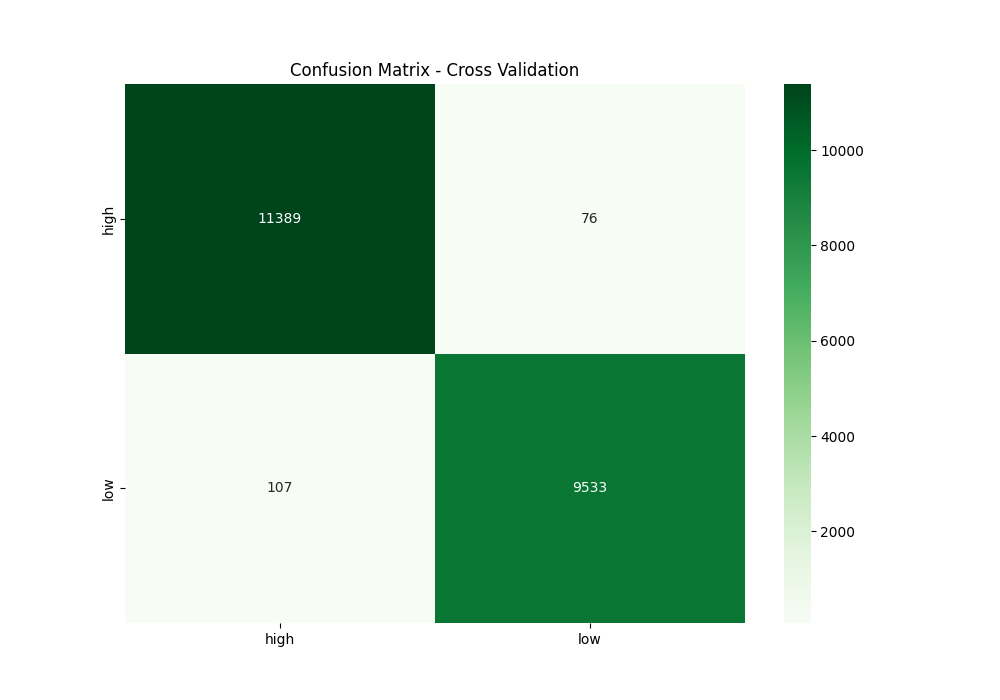
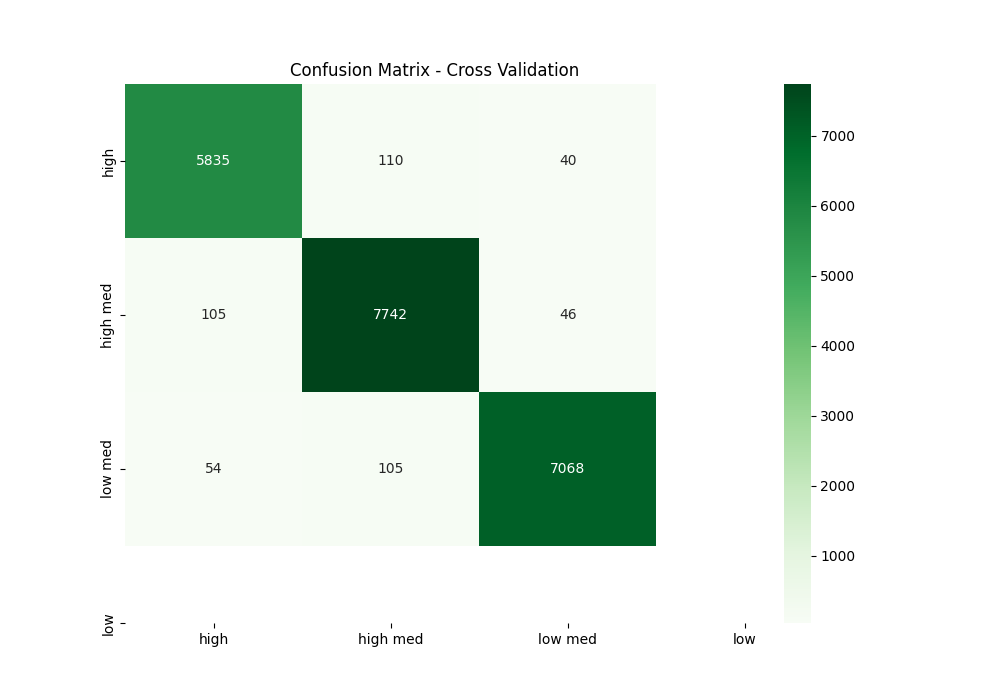
caso 3 finalizado sem mais alterações

diff --git a/tres1.py b/tres1.py
@@ -60,7 +60,7 @@ def get_class_rules(tree: DecisionTreeClassifier, feature_names: list):
     tree_dfs()  # começa da raiz, node_id = 0
     return class_rules_dict
 
-def cluster_report(data: pd.DataFrame, clusters, criterion='entropy',  max_depth=6, min_samples_leaf=1, use_pruning=False):
+def cluster_report(data: pd.DataFrame, clusters, criterion='entropy',  max_depth=50, min_samples_leaf=4, use_pruning=False):
     if use_pruning:
         X_train, X_test, y_train, y_test = train_test_split(data, clusters, test_size=0.3, random_state=42)
         tree = DecisionTreeClassifier(random_state=42)
@@ -326,7 +326,7 @@ def gerar_graficos():
         inertia.append(kmeans.inertia_)
 
     optimal_k_silhouette = K_range[np.argmax(silhouette_scores)]
-    optimal_k_elbow = 4 #K_range[np.argmin(np.diff(inertia, 2)) + 1]  # Finding the elbow points
+    optimal_k_elbow = 3 #K_range[np.argmin(np.diff(inertia, 2)) + 1]  # Finding the elbow points
 
     # Clustering com Silhouette
     kmeans_silhouette = KMeans(n_clusters=optimal_k_silhouette, random_state=42)
@@ -377,34 +377,36 @@ def gerar_graficos():
     plt.close()
 
     silhouette_avg_silhouette = silhouette_score(X_scaled, kmeans_silhouette.labels_)
+    elbow_avg_silhouette = silhouette_score(X_scaled, kmeans_elbow.labels_)
     davies_bouldin_silhouette = davies_bouldin_score(X_scaled, kmeans_silhouette.labels_)
     davies_bouldin_elbow = davies_bouldin_score(X_scaled, kmeans_elbow.labels_)
 
     print(f'Silhouette Score (Silhouette): {silhouette_avg_silhouette}')
+    print(f'Silhouette Score (Silhouette): {elbow_avg_silhouette}')
     print(f'Davies-Bouldin Score (Silhouette): {davies_bouldin_silhouette}')
     print(f'Davies-Bouldin Score (Elbow): {davies_bouldin_elbow}')
     
-    tree = DecisionTreeClassifier()
-    tree_para = {'criterion':['entropy','gini'],'max_depth':
-                 [4,5,6,7,8,9,10,11,12,15,20,30,40,50,70,90,120,150],
-                 'min_samples_leaf':[1,2,3,4,5]}
-    grid = GridSearchCV(tree, tree_para,verbose=5, cv=10)
-    grid.fit(X_scaled,kmeans_silhouette.labels_)
-    best_clf = grid.best_estimator_
-    best = best_clf
+    # tree = DecisionTreeClassifier()
+    # tree_para = {'criterion':['entropy','gini'],'max_depth':
+    #              [4,5,6,7,8,9,10,11,12,15,20,30,40,50,70,90,120,150],
+    #              'min_samples_leaf':[1,2,3,4,5]}
+    # grid = GridSearchCV(tree, tree_para,verbose=5, cv=10)
+    # grid.fit(X_scaled,kmeans_silhouette.labels_)
+    # best_clf = grid.best_estimator_
+    # best = best_clf
 
-    # Exibir resultados do GridSearchCV
-    best_params = grid.best_params_
-    best_score = grid.best_score_
+    # # Exibir resultados do GridSearchCV
+    # best_params = grid.best_params_
+    # best_score = grid.best_score_
     
-    print(f'Best parameters found: {best_params}')
-    print(f'Best score found: {best_score}')
+    # print(f'Best parameters found: {best_params}')
+    # print(f'Best score found: {best_score}')
 
     # Criação de conjuntos de treino e teste
-    X_train, X_test, y_train, y_test = train_test_split(X_scaled,kmeans_silhouette.labels_,test_size=0.3,random_state=100)
+    X_train, X_test, y_train, y_test = train_test_split(X_scaled,kmeans_elbow.labels_,test_size=0.3,random_state=100)
     train = (X_train.shape, y_train.shape) # shape - mostra quantas linhas e colunas for+am geradas
     test = (X_test.shape, y_test.shape)
-    tree = DecisionTreeClassifier(criterion='entropy', max_depth=6, min_samples_leaf=1)
+    tree = DecisionTreeClassifier(criterion='entropy', max_depth=50, min_samples_leaf=4)
     tree.fit(X_train,y_train)
     predictions_test = tree.predict(X_test)
     accuracy_test = accuracy_score(y_test,predictions_test)*100
@@ -415,8 +417,8 @@ def gerar_graficos():
 
     #Test
     cf = confusion_matrix(y_test,predictions_test)
-    lbl1 = ['high', 'low']
-    lbl2 = ['high', 'low']
+    lbl1 = ['high', 'high med', 'low med','low']
+    lbl2 = ['high', 'high med', 'low med','low']
     plt.figure(figsize=(10, 7))
     sns.heatmap(cf, annot=True, cmap="Greens", fmt="d", xticklabels=lbl1, yticklabels=lbl2)
     plt.title("Confusion Matrix - Test")
@@ -424,22 +426,22 @@ def gerar_graficos():
     plt.close()
 
     #Cross Validation
-    predictions_test = cross_val_predict(tree,X_scaled,kmeans_silhouette.labels_,cv=10)
-    accuracy_test1 = accuracy_score(kmeans_silhouette.labels_,predictions_test)*100
+    predictions_test = cross_val_predict(tree,X_scaled,kmeans_elbow.labels_,cv=10)
+    accuracy_test1 = accuracy_score(kmeans_elbow.labels_,predictions_test)*100
 
     print(f'Acurácia: {accuracy_test1}')
 
-    predictions = cross_val_predict(tree,X_scaled,kmeans_silhouette.labels_,cv=10)
-    cf = confusion_matrix(kmeans_silhouette.labels_,predictions)
-    lbl1 = ['high', 'low']
-    lbl2 = ['high', 'low']
+    predictions = cross_val_predict(tree,X_scaled,kmeans_elbow.labels_,cv=10)
+    cf = confusion_matrix(kmeans_elbow.labels_,predictions)
+    lbl1 = ['high', 'high med', 'low med','low']
+    lbl2 = ['high', 'high med', 'low med','low']
     plt.figure(figsize=(10, 7))
     sns.heatmap(cf, annot=True, cmap="Greens", fmt="d", xticklabels=lbl1, yticklabels=lbl2)
     plt.title("Confusion Matrix - Cross Validation")
     plt.savefig('static/graficos/new/tres/df_confusion_matrix_cv.png')  # Salvando o gráfico
     plt.close()
 
-    report = classification_report(kmeans_silhouette.labels_,predictions)
+    report = classification_report(kmeans_elbow.labels_,predictions)
     print(f'Report: {report}')
     
     #Gera arvore de decisao
@@ -472,15 +474,15 @@ def gerar_graficos():
     plt.close()
 
     # Relatório de clusters sem poda
-    report_df_no_pruning = cluster_report(pd.DataFrame(X_scaled, columns=df2.columns), kmeans_silhouette.labels_)
+    report_df_no_pruning = cluster_report(pd.DataFrame(X_scaled, columns=df2.columns), kmeans_elbow.labels_)
     # Relatório de clusters com poda
-    report_df_pruning = cluster_report(pd.DataFrame(X_scaled, columns=df2.columns), kmeans_silhouette.labels_, use_pruning=True)
+    report_df_pruning = cluster_report(pd.DataFrame(X_scaled, columns=df2.columns), kmeans_elbow.labels_, use_pruning=True)
 
     # Imprimir relatórios no console
     print("Relatório sem poda:")
     print_cluster_report(report_df_no_pruning)
-    print("\nRelatório com poda:")
-    print_cluster_report(report_df_pruning)
+    # print("\nRelatório com poda:")
+    # print_cluster_report(report_df_pruning)
 
     return "Processamento concluído e informações exibidas no console."
 
